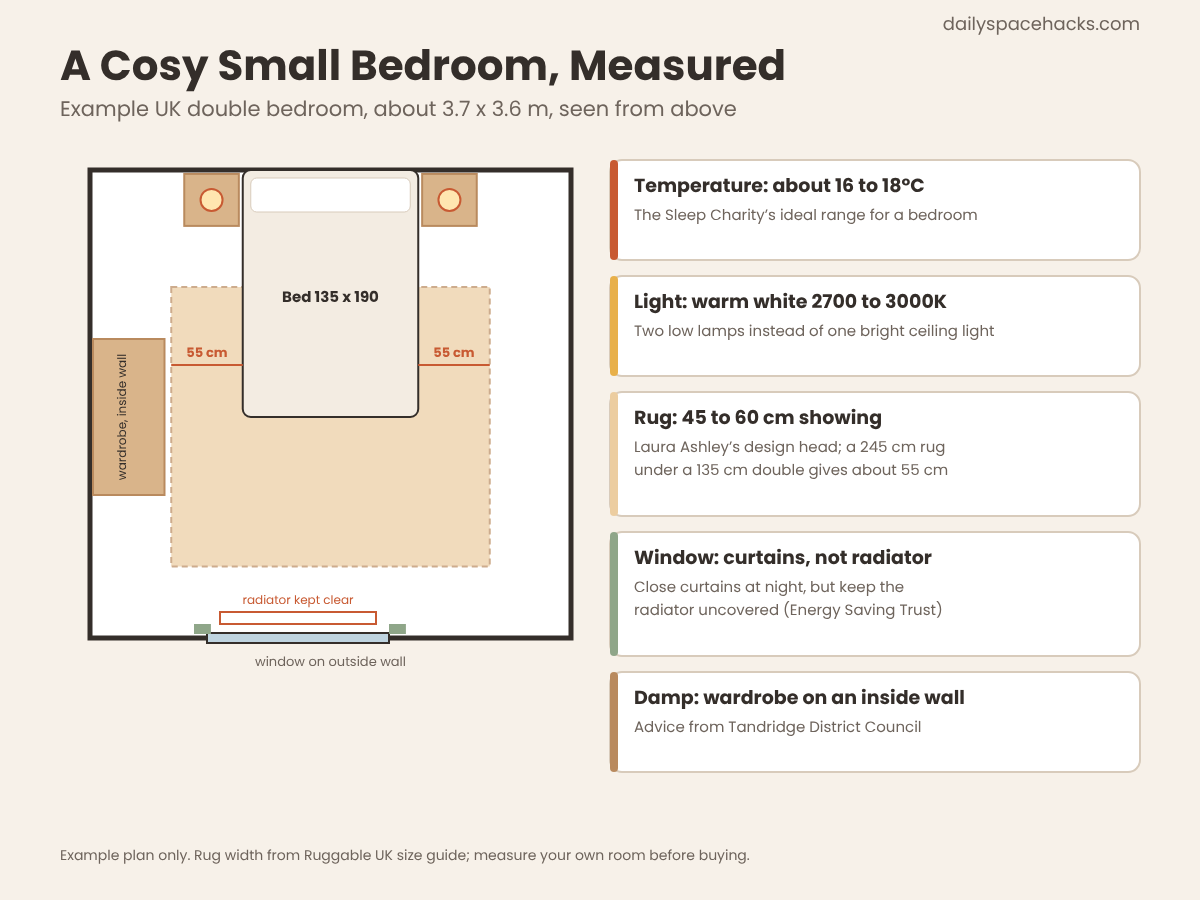
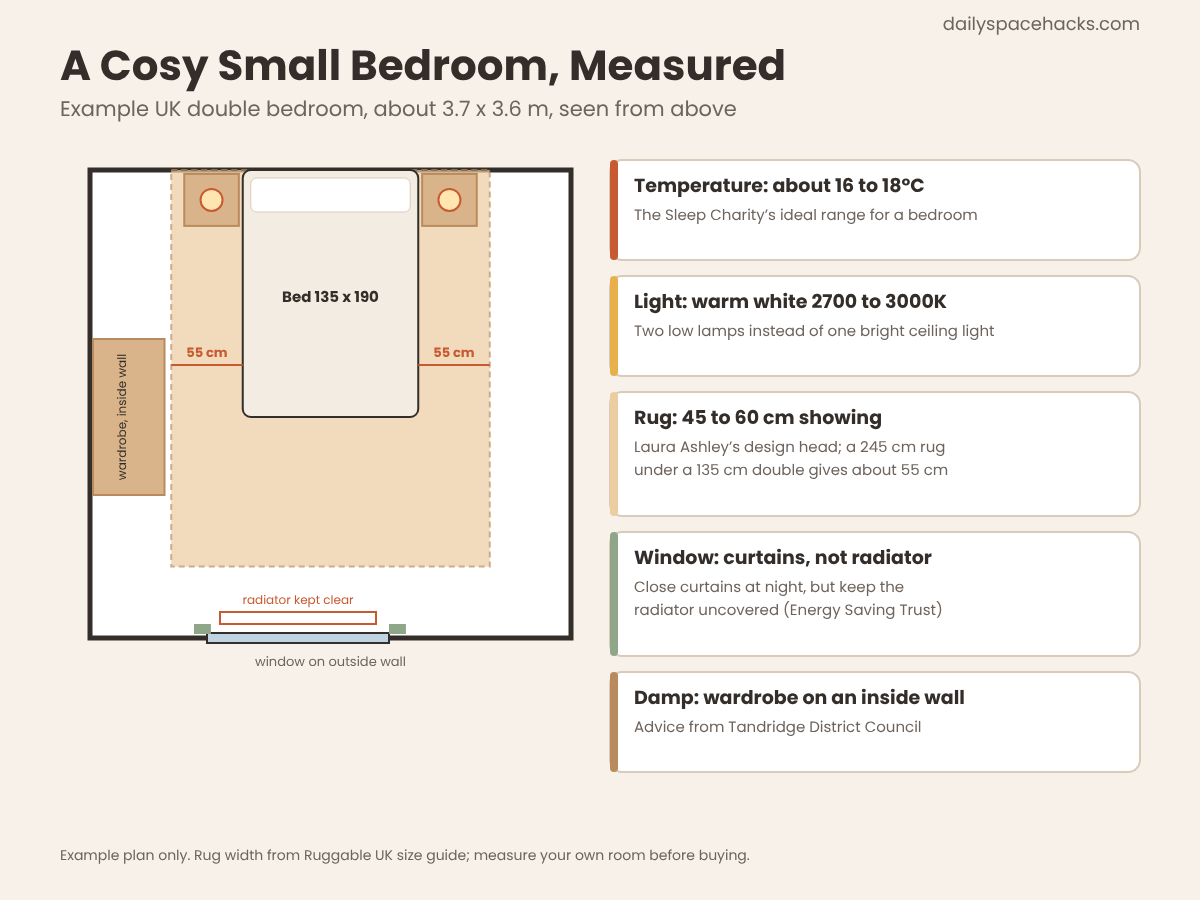
cosy: fact-check fixes

Changed region(s): [[0.3392, 0.1867, 0.4317, 0.3422], [0.1233, 0.1867, 0.2158, 0.3422]]

diff --git a/tools/cosy-bedroom/content.html b/tools/cosy-bedroom/content.html
@@ -15,11 +15,11 @@
 <!-- /wp:heading -->
 
 <!-- wp:html -->
-<figure class="dsh-diagram"><svg xmlns="http://www.w3.org/2000/svg" viewBox="0 0 1200 900" font-family="Poppins, sans-serif" role="img" aria-labelledby="cb-t cb-d"><title id="cb-t">Cosy small bedroom plan</title><desc id="cb-d">Top-down plan of a small UK double bedroom about 3.7 by 3.6 metres. A 135 cm double bed sits against the inside wall with a 245 cm wide rug under it, so about 55 cm of rug shows on each side, inside the 45 to 60 cm a Laura Ashley designer recommends. Warm white 2700 to 3000K lamps on both bedside tables. The radiator under the window is left uncovered and curtains stop clear of it. The wardrobe stands on an internal wall to reduce condensation. Aim for a bedroom temperature of about 16 to 18 degrees C.</desc><rect width="1200" height="900" fill="#F7F1E9"/><text x="60" y="80" font-size="42" font-weight="700" fill="#342E2A">A Cosy Small Bedroom, Measured</text><text x="60" y="116" font-size="21" fill="#6E645C">Example UK double bedroom, about 3.7 x 3.6 m, seen from above</text><text x="1140" y="30" font-size="18" fill="#6E645C" text-anchor="end">dailyspacehacks.com</text><rect x="90" y="170" width="481.0" height="468.0" fill="#FFFFFF" stroke="#342E2A" stroke-width="5"/><rect x="207.0" y="633.0" width="182.0" height="10" fill="#BFD4E0" stroke="#342E2A" stroke-width="2"/><rect x="220.0" y="612.0" width="156.0" height="12" fill="#FFFFFF" stroke="#C85A32" stroke-width="2"/><text x="298.0" y="604.0" font-size="12" fill="#C85A32" text-anchor="middle">radiator kept clear</text><rect x="194.0" y="624.0" width="16.90" height="10" fill="#8FA689"/><rect x="389.0" y="624.0" width="16.90" height="10" fill="#8FA689"/><rect x="171.25" y="287.0" width="318.5" height="279.5" fill="#ECCDA0" opacity="0.7" stroke="#B98A5E" stroke-width="2" stroke-dasharray="6 4"/><rect x="242.75" y="170.0" width="175.5" height="247.0" rx="8" fill="#F3ECE2" stroke="#342E2A" stroke-width="2"/><rect x="250.75" y="178.0" width="159.5" height="34" rx="6" fill="#FFFFFF" stroke="#D8CBBB"/><text x="330.5" y="301.5" font-size="15" font-weight="700" fill="#342E2A" text-anchor="middle">Bed 135 x 190</text><line x1="171.25" y1="365.0" x2="242.75" y2="365.0" stroke="#C85A32" stroke-width="2"/><text x="207.0" y="357.0" font-size="13" font-weight="700" fill="#C85A32" text-anchor="middle">55 cm</text><line x1="418.25" y1="365.0" x2="489.75" y2="365.0" stroke="#C85A32" stroke-width="2"/><text x="454.0" y="357.0" font-size="13" font-weight="700" fill="#C85A32" text-anchor="middle">55 cm</text><rect x="184.25" y="173.9" width="54.6" height="52.0" fill="#D9B48A" stroke="#B98A5E" stroke-width="2"/><circle cx="211.55" cy="199.9" r="11" fill="#FFE6B0" stroke="#C85A32" stroke-width="2"/><rect x="422.15" y="173.9" width="54.6" height="52.0" fill="#D9B48A" stroke="#B98A5E" stroke-width="2"/><circle cx="449.45" cy="199.9" r="11" fill="#FFE6B0" stroke="#C85A32" stroke-width="2"/><rect x="93.0" y="339.0" width="71.5" height="156.0" fill="#D9B48A" stroke="#B98A5E" stroke-width="2"/><text x="125.75" y="417.0" font-size="12" fill="#342E2A" text-anchor="middle" transform="rotate(-90 125.75 417.0)">wardrobe, inside wall</text><text x="330.5" y="666.0" font-size="13" fill="#6E645C" text-anchor="middle">window on outside wall</text><rect x="610" y="160" width="530" height="100" rx="12" fill="#FFFFFF" stroke="#D8CBBB" stroke-width="2"/><rect x="610" y="160" width="8" height="100" rx="4" fill="#C85A32"/><text x="634" y="192" font-size="19" font-weight="700" fill="#342E2A">Temperature: about 16 to 18°C</text><text x="634" y="220" font-size="15" fill="#6E645C">The Sleep Charity’s ideal range for a bedroom</text><rect x="610" y="276" width="530" height="100" rx="12" fill="#FFFFFF" stroke="#D8CBBB" stroke-width="2"/><rect x="610" y="276" width="8" height="100" rx="4" fill="#E8B04A"/><text x="634" y="308" font-size="19" font-weight="700" fill="#342E2A">Light: warm white 2700 to 3000K</text><text x="634" y="336" font-size="15" fill="#6E645C">Two low lamps instead of one bright ceiling light</text><rect x="610" y="392" width="530" height="124" rx="12" fill="#FFFFFF" stroke="#D8CBBB" stroke-width="2"/><rect x="610" y="392" width="8" height="124" rx="4" fill="#ECCDA0"/><text x="634" y="424" font-size="19" font-weight="700" fill="#342E2A">Rug: 45 to 60 cm showing</text><text x="634" y="452" font-size="15" fill="#6E645C">Laura Ashley’s design head; a 245 cm rug</text><text x="634" y="475" font-size="15" fill="#6E645C">under a 135 cm double gives about 55 cm</text><rect x="610" y="532" width="530" height="124" rx="12" fill="#FFFFFF" stroke="#D8CBBB" stroke-width="2"/><rect x="610" y="532" width="8" height="124" rx="4" fill="#8FA689"/><text x="634" y="564" font-size="19" font-weight="700" fill="#342E2A">Window: curtains, not radiator</text><text x="634" y="592" font-size="15" fill="#6E645C">Close curtains at night, but keep the</text><text x="634" y="615" font-size="15" fill="#6E645C">radiator uncovered (Energy Saving Trust)</text><rect x="610" y="672" width="530" height="100" rx="12" fill="#FFFFFF" stroke="#D8CBBB" stroke-width="2"/><rect x="610" y="672" width="8" height="100" rx="4" fill="#B98A5E"/><text x="634" y="704" font-size="19" font-weight="700" fill="#342E2A">Damp: wardrobe on an inside wall</text><text x="634" y="732" font-size="15" fill="#6E645C">Advice from Tandridge District Council</text><text x="60" y="860" font-size="14" fill="#6E645C">Example plan only. Rug width from Ruggable UK size guide; measure your own room before buying.</text></svg><figcaption>An example cosy layout for a small UK double bedroom: warm lamps on both sides, a rug showing about 55 cm each side of the bed, a clear radiator and the wardrobe on an inside wall.</figcaption></figure>
+<figure class="dsh-diagram"><svg xmlns="http://www.w3.org/2000/svg" viewBox="0 0 1200 900" font-family="Poppins, sans-serif" role="img" aria-labelledby="cb-t cb-d"><title id="cb-t">Cosy small bedroom plan</title><desc id="cb-d">Top-down plan of a small UK double bedroom about 3.7 by 3.6 metres. A 135 cm double bed sits against the inside wall with a 245 cm wide rug under it, so about 55 cm of rug shows on each side, inside the 45 to 60 cm a Laura Ashley designer recommends. Warm white 2700 to 3000K lamps on both bedside tables. The radiator under the window is left uncovered and curtains stop clear of it. The wardrobe stands on an internal wall to reduce condensation. Aim for a bedroom temperature of about 16 to 18 degrees C.</desc><rect width="1200" height="900" fill="#F7F1E9"/><text x="60" y="80" font-size="42" font-weight="700" fill="#342E2A">A Cosy Small Bedroom, Measured</text><text x="60" y="116" font-size="21" fill="#6E645C">Example UK double bedroom, about 3.7 x 3.6 m, seen from above</text><text x="1140" y="30" font-size="18" fill="#6E645C" text-anchor="end">dailyspacehacks.com</text><rect x="90" y="170" width="481.0" height="468.0" fill="#FFFFFF" stroke="#342E2A" stroke-width="5"/><rect x="207.0" y="633.0" width="182.0" height="10" fill="#BFD4E0" stroke="#342E2A" stroke-width="2"/><rect x="220.0" y="612.0" width="156.0" height="12" fill="#FFFFFF" stroke="#C85A32" stroke-width="2"/><text x="298.0" y="604.0" font-size="12" fill="#C85A32" text-anchor="middle">radiator kept clear</text><rect x="194.0" y="624.0" width="16.90" height="10" fill="#8FA689"/><rect x="389.0" y="624.0" width="16.90" height="10" fill="#8FA689"/><rect x="171.25" y="170.0" width="318.5" height="396.5" fill="#ECCDA0" opacity="0.7" stroke="#B98A5E" stroke-width="2" stroke-dasharray="6 4"/><rect x="242.75" y="170.0" width="175.5" height="247.0" rx="8" fill="#F3ECE2" stroke="#342E2A" stroke-width="2"/><rect x="250.75" y="178.0" width="159.5" height="34" rx="6" fill="#FFFFFF" stroke="#D8CBBB"/><text x="330.5" y="301.5" font-size="15" font-weight="700" fill="#342E2A" text-anchor="middle">Bed 135 x 190</text><line x1="171.25" y1="365.0" x2="242.75" y2="365.0" stroke="#C85A32" stroke-width="2"/><text x="207.0" y="357.0" font-size="13" font-weight="700" fill="#C85A32" text-anchor="middle">55 cm</text><line x1="418.25" y1="365.0" x2="489.75" y2="365.0" stroke="#C85A32" stroke-width="2"/><text x="454.0" y="357.0" font-size="13" font-weight="700" fill="#C85A32" text-anchor="middle">55 cm</text><rect x="184.25" y="173.9" width="54.6" height="52.0" fill="#D9B48A" stroke="#B98A5E" stroke-width="2"/><circle cx="211.55" cy="199.9" r="11" fill="#FFE6B0" stroke="#C85A32" stroke-width="2"/><rect x="422.15" y="173.9" width="54.6" height="52.0" fill="#D9B48A" stroke="#B98A5E" stroke-width="2"/><circle cx="449.45" cy="199.9" r="11" fill="#FFE6B0" stroke="#C85A32" stroke-width="2"/><rect x="93.0" y="339.0" width="71.5" height="156.0" fill="#D9B48A" stroke="#B98A5E" stroke-width="2"/><text x="125.75" y="417.0" font-size="12" fill="#342E2A" text-anchor="middle" transform="rotate(-90 125.75 417.0)">wardrobe, inside wall</text><text x="330.5" y="666.0" font-size="13" fill="#6E645C" text-anchor="middle">window on outside wall</text><rect x="610" y="160" width="530" height="100" rx="12" fill="#FFFFFF" stroke="#D8CBBB" stroke-width="2"/><rect x="610" y="160" width="8" height="100" rx="4" fill="#C85A32"/><text x="634" y="192" font-size="19" font-weight="700" fill="#342E2A">Temperature: about 16 to 18°C</text><text x="634" y="220" font-size="15" fill="#6E645C">The Sleep Charity’s ideal range for a bedroom</text><rect x="610" y="276" width="530" height="100" rx="12" fill="#FFFFFF" stroke="#D8CBBB" stroke-width="2"/><rect x="610" y="276" width="8" height="100" rx="4" fill="#E8B04A"/><text x="634" y="308" font-size="19" font-weight="700" fill="#342E2A">Light: warm white 2700 to 3000K</text><text x="634" y="336" font-size="15" fill="#6E645C">Two low lamps instead of one bright ceiling light</text><rect x="610" y="392" width="530" height="124" rx="12" fill="#FFFFFF" stroke="#D8CBBB" stroke-width="2"/><rect x="610" y="392" width="8" height="124" rx="4" fill="#ECCDA0"/><text x="634" y="424" font-size="19" font-weight="700" fill="#342E2A">Rug: 45 to 60 cm showing</text><text x="634" y="452" font-size="15" fill="#6E645C">Laura Ashley’s design head; a 245 cm rug</text><text x="634" y="475" font-size="15" fill="#6E645C">under a 135 cm double gives about 55 cm</text><rect x="610" y="532" width="530" height="124" rx="12" fill="#FFFFFF" stroke="#D8CBBB" stroke-width="2"/><rect x="610" y="532" width="8" height="124" rx="4" fill="#8FA689"/><text x="634" y="564" font-size="19" font-weight="700" fill="#342E2A">Window: curtains, not radiator</text><text x="634" y="592" font-size="15" fill="#6E645C">Close curtains at night, but keep the</text><text x="634" y="615" font-size="15" fill="#6E645C">radiator uncovered (Energy Saving Trust)</text><rect x="610" y="672" width="530" height="100" rx="12" fill="#FFFFFF" stroke="#D8CBBB" stroke-width="2"/><rect x="610" y="672" width="8" height="100" rx="4" fill="#B98A5E"/><text x="634" y="704" font-size="19" font-weight="700" fill="#342E2A">Damp: wardrobe on an inside wall</text><text x="634" y="732" font-size="15" fill="#6E645C">Advice from Tandridge District Council</text><text x="60" y="860" font-size="14" fill="#6E645C">Example plan only. Rug width from Ruggable UK size guide; measure your own room before buying.</text></svg><figcaption>An example cosy layout for a small UK double bedroom: warm lamps on both sides, a rug showing about 55 cm each side of the bed, a clear radiator and the wardrobe on an inside wall.</figcaption></figure>
 <!-- /wp:html -->
 
 <!-- wp:heading -->
-<h2 class="wp-block-heading">Light: Cosy Bedroom Ideas for the Evening</h2>
+<h2 class="wp-block-heading">Light: Soft and Warm for the Evening</h2>
 <!-- /wp:heading -->
 
 <!-- wp:heading {"level":3} -->
@@ -31,7 +31,7 @@
 <!-- /wp:image -->
 
 <!-- wp:paragraph -->
-<p>Nothing kills a cosy feeling like one bright bulb in the middle of the ceiling. Use a lamp on each side of the bed and a wall light for reading. Ideal Home describes warm white bulbs of <a href="https://idealhome.co.uk/all-rooms/how-to-choose-the-right-light-bulb-warmth" target="_blank" rel="noopener">2700K-3000K</a> as ideal for a snug space. An NHS sleep leaflet also suggests you <a href="https://www.royalberkshire.nhs.uk/media/qowjobz5/sleep-hygiene_dec23.pdf" target="_blank" rel="noopener">dim lights during the evening</a>, so a lamp with a dimmer or a low-wattage bulb does two jobs.</p>
+<p>Few things undo a cosy feeling faster than one bright bulb in the middle of the ceiling. Use a lamp on each side of the bed and a wall light for reading. Ideal Home describes warm white bulbs of <a href="https://idealhome.co.uk/all-rooms/how-to-choose-the-right-light-bulb-warmth" target="_blank" rel="noopener">2700K-3000K</a> as ideal for a snug space. An NHS sleep leaflet also suggests you <a href="https://www.royalberkshire.nhs.uk/media/qowjobz5/sleep-hygiene_dec23.pdf" target="_blank" rel="noopener">dim lights during the evening</a>, so a lamp with a dimmer or a low-wattage bulb does two jobs.</p>
 <!-- /wp:paragraph -->
 
 <!-- wp:heading {"level":3} -->
@@ -55,7 +55,7 @@
 <!-- /wp:image -->
 
 <!-- wp:paragraph -->
-<p>A thick duvet is the quickest way to feel warm, but too heavy and you will wake up hot. The Fine Bedding Company suggests 4.5 tog for summer, 7 to 10.5 for spring and autumn, and <a href="https://www.finebedding.co.uk/blogs/news/what-tog-duvet" target="_blank" rel="noopener">13.5 tog</a> for winter. A four-seasons duvet, which clips a 4.5 and a 9 tog together, lets you change through the year without buying three.</p>
+<p>A thick duvet is the quickest way to feel warm, but too heavy and you will wake up hot. The Fine Bedding Company suggests 4.5 tog for summer, 7 to 10.5 for spring and autumn, and <a href="https://www.finebedding.co.uk/blogs/news/what-tog-duvet" target="_blank" rel="noopener">13.5 tog</a> for winter. A four-seasons duvet, which buttons a 4.5 and a 9 tog together, lets you change through the year without buying three.</p>
 <!-- /wp:paragraph -->
 
 <!-- wp:heading {"level":3} -->
@@ -87,7 +87,7 @@
 <!-- /wp:image -->
 
 <!-- wp:paragraph -->
-<p>Heavy, lined curtains block draughts and make a room feel enclosed and calm. The Energy Saving Trust says <a href="https://energysavingtrust.org.uk/energy-saving-budget?loc=wales" target="_blank" rel="noopener">closing blinds and curtains at night</a> can limit heat loss, but warns against letting curtains cover radiators, which sends the heat out of the window. Hang the pole wider and higher than the window and let the curtains stop beside a radiator, not over it. Our <a href="https://dailyspacehacks.com/curtain-size-calculator/">curtain size calculator</a> gives the drop and width.</p>
+<p>Heavy, lined curtains block draughts and make a room feel enclosed and calm. The Energy Saving Trust says <a href="https://energysavingtrust.org.uk/energy-saving-budget?loc=wales" target="_blank" rel="noopener">closing blinds and curtains at night</a> can limit heat loss, and says to make sure curtains don't block radiators. Hang the pole wider and higher than the window and let the curtains stop beside a radiator, not over it. Our <a href="https://dailyspacehacks.com/curtain-size-calculator/">curtain size calculator</a> gives the drop and width.</p>
 <!-- /wp:paragraph -->
 
 <!-- wp:heading {"level":3} -->
@@ -103,7 +103,7 @@
 <!-- /wp:heading -->
 
 <!-- wp:paragraph -->
-<p>Hot water bottles and electric blankets are cosy, but both need care. An NHS burns centre advises that you <a href="https://swanseabay.nhs.wales/news/swansea-bay-health-news/burns-patients-stark-warning-about-the-potential-dangers-of-hot-water-bottles/" target="_blank" rel="noopener">replace your hot water bottle every two years</a>, fill it no more than two thirds and use a cover. The London Fire Brigade says to replace electric blankets at least every 10 years, never use one together with a hot water bottle, and <a href="https://london-fire.gov.uk/safety/the-home/electrical-items/electric-blankets" target="_blank" rel="noopener">unplug blankets before you get into bed</a> unless the blanket is designed to stay on all night.</p>
+<p>Hot water bottles and electric blankets are cosy, but both need care. The Welsh Centre for Burns at Morriston Hospital advises that you <a href="https://swanseabay.nhs.wales/news/swansea-bay-health-news/burns-patients-stark-warning-about-the-potential-dangers-of-hot-water-bottles/" target="_blank" rel="noopener">replace your hot water bottle every two years</a>, fill it no more than two thirds with boiled water that has cooled for a few minutes (never boiling water), and use a cover. The London Fire Brigade says to replace electric blankets at least every 10 years, never use one together with a hot water bottle, and <a href="https://london-fire.gov.uk/safety/the-home/electrical-items/electric-blankets" target="_blank" rel="noopener">unplug blankets before you get into bed</a> unless the blanket is designed to stay on all night. Check it for fraying, scorch marks or damaged wires before winter, and don't buy one second-hand.</p>
 <!-- /wp:paragraph -->
 
 <!-- wp:heading -->
@@ -115,7 +115,7 @@
 <!-- /wp:heading -->
 
 <!-- wp:paragraph -->
-<p>White walls can feel cold in a north-facing British bedroom. Justyna Korczynska, senior designer at Crown, told Ideal Home that <a href="https://www.idealhome.co.uk/bedroom/bedroom-decor/small-bedroom-paint-ideas" target="_blank" rel="noopener">darker muted shades are good for creating a cosy and cocooning space</a>, and a Benjamin Moore colour expert suggests shades with a yellow or red undertone. Warm terracotta, mushroom or deep sage all work. If painting is not an option, a fabric headboard does a similar job.</p>
+<p>White walls can feel cold in a north-facing British bedroom. Justyna Korczynska, senior designer at Crown, told Ideal Home that <a href="https://www.idealhome.co.uk/bedroom/bedroom-decor/small-bedroom-paint-ideas" target="_blank" rel="noopener">darker muted shades are good for creating a cosy and cocooning space</a>, and Helen Shaw of Benjamin Moore suggests hues with a yellow or red undertone. Warm terracotta, mushroom or deep sage all work. If painting is not an option, a fabric headboard does a similar job.</p>
 <!-- /wp:paragraph -->
 
 <!-- wp:heading {"level":3} -->
@@ -135,7 +135,7 @@
 <!-- /wp:heading -->
 
 <!-- wp:paragraph -->
-<p>Two common habits work against a cosy, healthy bedroom. First, avoid drying washing in the bedroom: Tandridge District Council says <a href="https://www.tandridge.gov.uk/condensation" target="_blank" rel="noopener">do not dry washing on radiators</a> and explains that drying clothes indoors adds a lot of moisture, which leads to condensation and mould. Second, take care with lights. Warwickshire fire service advises that <a href="https://www.warwickshire.gov.uk/news/article/4828/firefighters-issue-festive-electrical-safety-advice-" target="_blank" rel="noopener">all fairy lights are switched off</a> before going to bed, and Dorset and Wiltshire Fire and Rescue says to make sure candles are <a href="https://www.dwfire.org.uk/news/warning-on-candle-safety-after-bedroom-fire" target="_blank" rel="noopener">out completely at night</a>. Battery-powered flameless candles give the same glow without the risk.</p>
+<p>Two common habits work against a cosy, healthy bedroom. First, avoid drying washing in the bedroom: Tandridge District Council says <a href="https://www.tandridge.gov.uk/condensation" target="_blank" rel="noopener">do not dry washing on radiators</a> and explains that drying clothes indoors adds a lot of moisture, which leads to condensation and mould. The council also suggests placing wardrobes and furniture against internal walls rather than outside walls. Second, take care with lights. Warwickshire fire service advises that <a href="https://www.warwickshire.gov.uk/news/article/4828/firefighters-issue-festive-electrical-safety-advice-" target="_blank" rel="noopener">all fairy lights are switched off</a> before going to bed and checked for the BS EN 60598 standard and frayed cables before use, and Dorset and Wiltshire Fire and Rescue says to make sure candles are <a href="https://www.dwfire.org.uk/news/warning-on-candle-safety-after-bedroom-fire" target="_blank" rel="noopener">out completely at night</a> and never left burning unattended. Battery-powered flameless candles give a similar glow without the fire risk.</p>
 <!-- /wp:paragraph -->
 
 <!-- wp:heading -->
@@ -151,7 +151,7 @@
 <!-- /wp:paragraph -->
 
 <!-- wp:paragraph -->
-<p>Of all these cosy bedroom ideas, if you only change one thing, change the light: two warm lamps instead of the ceiling bulb will make more difference than any new bedding. Then add a rug and a throw, close the curtains at dusk, and keep the room at around 16 to 18°C. For a room that also has to work for visitors, our <a href="https://dailyspacehacks.com/guest-bedroom-ideas/">guest bedroom ideas</a> and <a href="https://dailyspacehacks.com/boho-bedroom-ideas/">boho bedroom ideas</a> have more ways to layer a bedroom.</p>
+<p>Of all these cosy bedroom ideas, if you only change one thing, change the light: two warm lamps instead of the ceiling bulb often makes more difference than new bedding. Then add a rug and a throw, close the curtains at dusk, and keep the room at around 16 to 18°C. For a room that also has to work for visitors, our <a href="https://dailyspacehacks.com/guest-bedroom-ideas/">guest bedroom ideas</a> and <a href="https://dailyspacehacks.com/boho-bedroom-ideas/">boho bedroom ideas</a> have more ways to layer a bedroom.</p>
 <!-- /wp:paragraph -->
 
 <!-- wp:paragraph {"className":"dsh-ai-note","fontSize":"small"} -->

diff --git a/tools/cosy-bedroom/build.py b/tools/cosy-bedroom/build.py
@@ -24,17 +24,17 @@ img(1)
 h2("A Cosy Small Bedroom, Measured")
 diagram(open('z.svg').read(),"An example cosy layout for a small UK double bedroom: warm lamps on both sides, a rug showing about 55 cm each side of the bed, a clear radiator and the wardrobe on an inside wall.")
 
-h2("Light: Cosy Bedroom Ideas for the Evening")
+h2("Light: Soft and Warm for the Evening")
 h3("1. Swap the Ceiling Light for Two Low Lamps")
 img(2)
-p(f"Nothing kills a cosy feeling like one bright bulb in the middle of the ceiling. Use a lamp on each side of the bed and a wall light for reading. Ideal Home describes warm white bulbs of {SR('ih_bulb','2700K-3000K')} as ideal for a snug space. An NHS sleep leaflet also suggests you {SR('nhs','dim lights during the evening')}, so a lamp with a dimmer or a low-wattage bulb does two jobs.")
+p(f"Few things undo a cosy feeling faster than one bright bulb in the middle of the ceiling. Use a lamp on each side of the bed and a wall light for reading. Ideal Home describes warm white bulbs of {SR('ih_bulb','2700K-3000K')} as ideal for a snug space. An NHS sleep leaflet also suggests you {SR('nhs','dim lights during the evening')}, so a lamp with a dimmer or a low-wattage bulb does two jobs.")
 h3("2. Keep Screens and Standby Lights Out")
 p(f"Small lights matter more than you might think. The Sleep Charity warns that {SR('sc','even small amounts of light')} from an alarm clock or a TV standby button can disturb sleep, and suggests a red night light if you need one. Charge phones outside the bedroom, or face them down, and cover bright LEDs.")
 
 h2("Layers: Bedding and Textiles")
 h3("3. Choose the Right Tog for the Season")
 img(3)
-p(f"A thick duvet is the quickest way to feel warm, but too heavy and you will wake up hot. The Fine Bedding Company suggests 4.5 tog for summer, 7 to 10.5 for spring and autumn, and {SR('fbc','13.5 tog')} for winter. A four-seasons duvet, which clips a 4.5 and a 9 tog together, lets you change through the year without buying three.")
+p(f"A thick duvet is the quickest way to feel warm, but too heavy and you will wake up hot. The Fine Bedding Company suggests 4.5 tog for summer, 7 to 10.5 for spring and autumn, and {SR('fbc','13.5 tog')} for winter. A four-seasons duvet, which buttons a 4.5 and a 9 tog together, lets you change through the year without buying three.")
 h3("4. Layer Throws and Cushions in Different Textures")
 p("Cosy is mostly texture. Put a waffle or wool blanket across the foot of the bed, a chunky knitted throw on top, and three or four cushions in different fabrics such as linen, velvet and bouclé. Keep the colours close together, for example oatmeal, sage and caramel, so the bed looks layered rather than busy. Fold extra blankets into a basket so they are easy to grab on cold nights.")
 h3("5. Put a Big Rug Under the Bed")
@@ -43,26 +43,26 @@ p(f"Stepping onto a soft rug in the morning makes a bare-floored room feel warme
 h2("Warmth: Keep the Heat In")
 h3("6. Hang Lined Curtains and Close Them at Night")
 img(4)
-p(f"Heavy, lined curtains block draughts and make a room feel enclosed and calm. The Energy Saving Trust says {SR('est','closing blinds and curtains at night')} can limit heat loss, but warns against letting curtains cover radiators, which sends the heat out of the window. Hang the pole wider and higher than the window and let the curtains stop beside a radiator, not over it. Our {a('curtain-size-calculator','curtain size calculator')} gives the drop and width.")
+p(f"Heavy, lined curtains block draughts and make a room feel enclosed and calm. The Energy Saving Trust says {SR('est','closing blinds and curtains at night')} can limit heat loss, and says to make sure curtains don't block radiators. Hang the pole wider and higher than the window and let the curtains stop beside a radiator, not over it. Our {a('curtain-size-calculator','curtain size calculator')} gives the drop and width.")
 h3("7. Seal the Draughts")
 p(f"Gaps around windows and doors make a room feel cold even when the heating is on. The Energy Saving Trust puts the potential saving from draught-proofing at {SR('est','£40 a year')}, and self-adhesive strips are a quick DIY job. A fabric draught excluder along the bottom of the bedroom door helps too.")
 h3("8. Warm the Bed Safely")
-p(f"Hot water bottles and electric blankets are cosy, but both need care. An NHS burns centre advises that you {SR('swb','replace your hot water bottle every two years')}, fill it no more than two thirds and use a cover. The London Fire Brigade says to replace electric blankets at least every 10 years, never use one together with a hot water bottle, and {SR('lfb','unplug blankets before you get into bed')} unless the blanket is designed to stay on all night.")
+p(f"Hot water bottles and electric blankets are cosy, but both need care. The Welsh Centre for Burns at Morriston Hospital advises that you {SR('swb','replace your hot water bottle every two years')}, fill it no more than two thirds with boiled water that has cooled for a few minutes (never boiling water), and use a cover. The London Fire Brigade says to replace electric blankets at least every 10 years, never use one together with a hot water bottle, and {SR('lfb','unplug blankets before you get into bed')} unless the blanket is designed to stay on all night. Check it for fraying, scorch marks or damaged wires before winter, and don't buy one second-hand.")
 
 h2("Finishing Touches")
 h3("9. Paint the Walls a Warm, Muted Colour")
-p(f"White walls can feel cold in a north-facing British bedroom. Justyna Korczynska, senior designer at Crown, told Ideal Home that {SR('paint','darker muted shades are good for creating a cosy and cocooning space')}, and a Benjamin Moore colour expert suggests shades with a yellow or red undertone. Warm terracotta, mushroom or deep sage all work. If painting is not an option, a fabric headboard does a similar job.")
+p(f"White walls can feel cold in a north-facing British bedroom. Justyna Korczynska, senior designer at Crown, told Ideal Home that {SR('paint','darker muted shades are good for creating a cosy and cocooning space')}, and Helen Shaw of Benjamin Moore suggests hues with a yellow or red undertone. Warm terracotta, mushroom or deep sage all work. If painting is not an option, a fabric headboard does a similar job.")
 h3("10. Make a Small Reading Corner")
 img(5)
 p(f"A small armchair, a floor lamp and a side table for a mug turn a spare corner into the cosiest spot in the room. Keep it simple: one chair, one light and one throw. Our {a('small-bedroom-storage-ideas','small bedroom storage ideas')} help free up the space, and our {a('box-room-bedroom-ideas','box room bedroom ideas')} show what fits in the smallest rooms.")
 
 h2("Keep It Cosy and Safe")
-p(f"Two common habits work against a cosy, healthy bedroom. First, avoid drying washing in the bedroom: Tandridge District Council says {SR('tand','do not dry washing on radiators')} and explains that drying clothes indoors adds a lot of moisture, which leads to condensation and mould. Second, take care with lights. Warwickshire fire service advises that {SR('warw','all fairy lights are switched off')} before going to bed, and Dorset and Wiltshire Fire and Rescue says to make sure candles are {SR('dwf','out completely at night')}. Battery-powered flameless candles give the same glow without the risk.")
+p(f"Two common habits work against a cosy, healthy bedroom. First, avoid drying washing in the bedroom: Tandridge District Council says {SR('tand','do not dry washing on radiators')} and explains that drying clothes indoors adds a lot of moisture, which leads to condensation and mould. The council also suggests placing wardrobes and furniture against internal walls rather than outside walls. Second, take care with lights. Warwickshire fire service advises that {SR('warw','all fairy lights are switched off')} before going to bed and checked for the BS EN 60598 standard and frayed cables before use, and Dorset and Wiltshire Fire and Rescue says to make sure candles are {SR('dwf','out completely at night')} and never left burning unattended. Battery-powered flameless candles give a similar glow without the fire risk.")
 
 h2("Where to Start")
 img(6)
 p("This before and after illustration shows how much warmth, light and texture change the same small bedroom.")
-p(f"Of all these cosy bedroom ideas, if you only change one thing, change the light: two warm lamps instead of the ceiling bulb will make more difference than any new bedding. Then add a rug and a throw, close the curtains at dusk, and keep the room at around 16 to 18°C. For a room that also has to work for visitors, our {a('guest-bedroom-ideas','guest bedroom ideas')} and {a('boho-bedroom-ideas','boho bedroom ideas')} have more ways to layer a bedroom.")
+p(f"Of all these cosy bedroom ideas, if you only change one thing, change the light: two warm lamps instead of the ceiling bulb often makes more difference than new bedding. Then add a rug and a throw, close the curtains at dusk, and keep the room at around 16 to 18°C. For a room that also has to work for visitors, our {a('guest-bedroom-ideas','guest bedroom ideas')} and {a('boho-bedroom-ideas','boho bedroom ideas')} have more ways to layer a bedroom.")
 ai_note()
 html='\n\n'.join(out)
 html=re.sub(r'(\d+\.\d{2})\d+',r'\1',html)

diff --git a/tools/cosy-bedroom/svg.py b/tools/cosy-bedroom/svg.py
@@ -22,7 +22,7 @@ for cx in (800,2300): a(f'<rect x="{X(cx)}" y="{Y(RL)-14}" width="{100*k*1.3}" h
 # rug centred on bed, bed against top wall
 bx=(RW-BW)/2
 rx=(RW-RUGW)/2
-a(f'<rect x="{X(rx)}" y="{Y(900)}" width="{RUGW*k}" height="{(RUGL-900)*k}" fill="{SA}" opacity="0.7" stroke="{W2}" stroke-width="2" stroke-dasharray="6 4"/>')
+a(f'<rect x="{X(rx)}" y="{Y(0)}" width="{RUGW*k}" height="{RUGL*k}" fill="{SA}" opacity="0.7" stroke="{W2}" stroke-width="2" stroke-dasharray="6 4"/>')
 a(f'<rect x="{X(bx)}" y="{Y(0)}" width="{BW*k}" height="{BL*k}" rx="8" fill="#F3ECE2" stroke="{T}" stroke-width="2"/>')
 a(f'<rect x="{X(bx)+8}" y="{Y(0)+8}" width="{BW*k-16}" height="34" rx="6" fill="#FFFFFF" stroke="{BR}"/>')
 a(f'<text x="{X(RW/2)}" y="{Y(BL/2)+8}" font-size="15" font-weight="700" fill="{T}" text-anchor="middle">Bed 135 x 190</text>')
